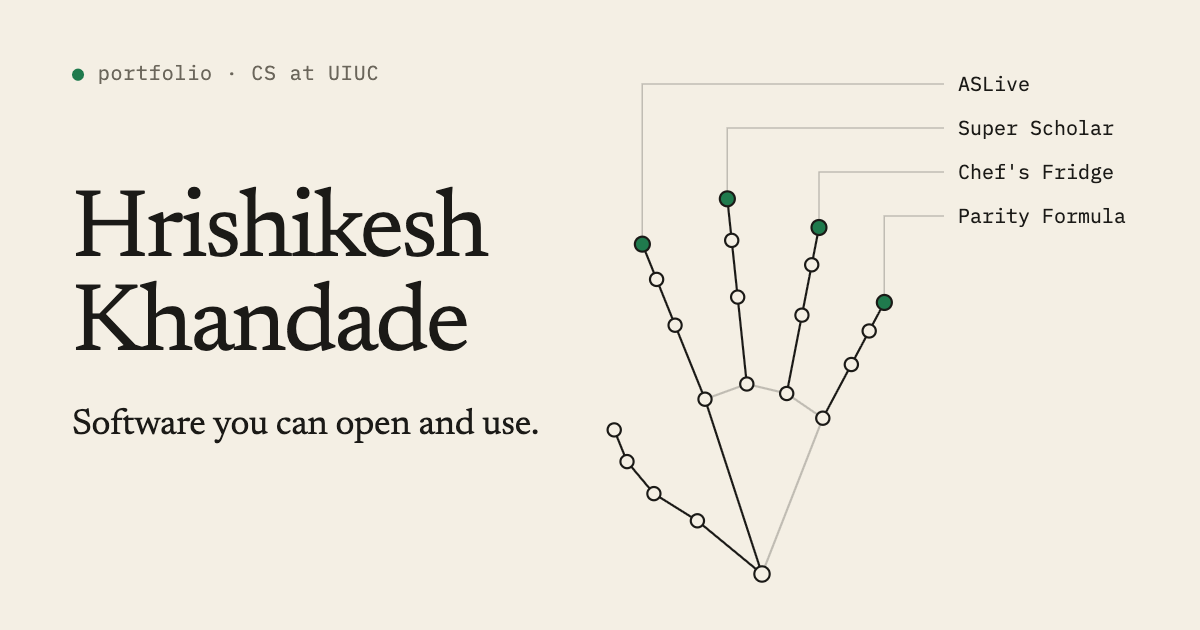
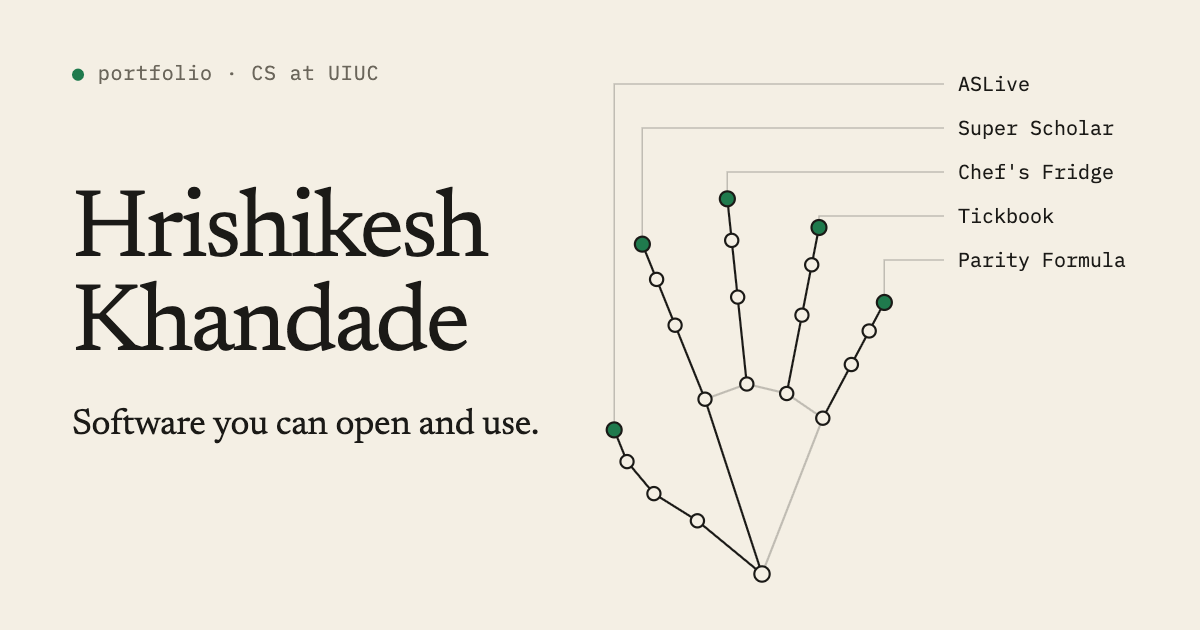
content: share card holds all five projects, Tickbook included
The thumb now carries a project too, so the card names every project
on the site.

diff --git a/dev/share-card.ts b/dev/share-card.ts
@@ -15,8 +15,8 @@ label.append(dot, 'portfolio · CS at UIUC')
 
 // An open hand, not a letter: the card is about the work, and each finger holds one project.
 const OPEN: Pose = { curl: [0, 0, 0, 0], spread: 1, thumb: { angle: -58, curl: 0 }, rot: 0 }
-/** Fingertip landmarks, left to right as drawn: index, middle, ring, pinky. */
-const TIPS = [8, 12, 16, 20]
+/** Fingertip landmarks, left to right as drawn: thumb, index, middle, ring, pinky. */
+const TIPS = [4, 8, 12, 16, 20]
 const names = site.work.slice(0, TIPS.length).map((w) => w.name)
 
 // The site draws the hand with 1px lines and 3px joints; drawing small and scaling by K keeps those proportions.
